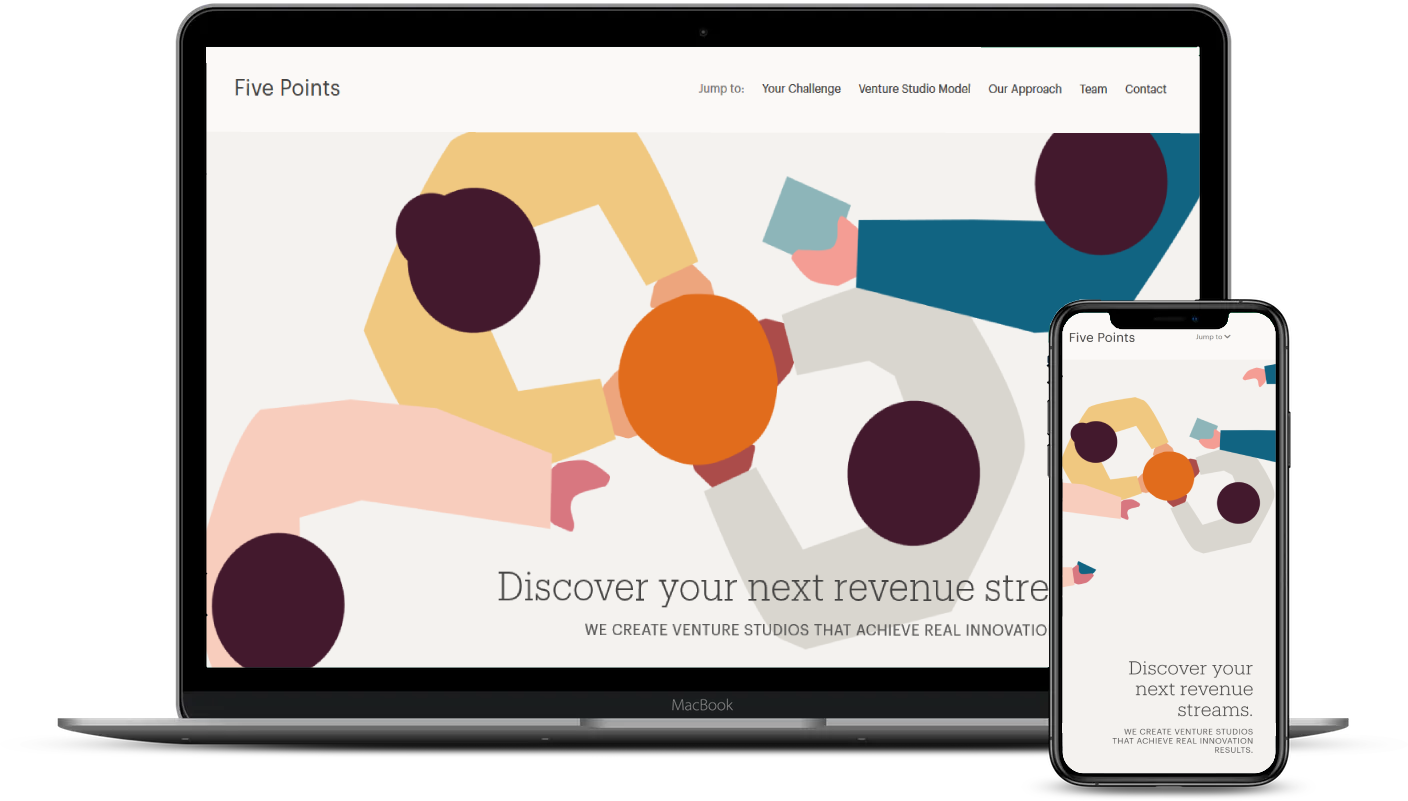
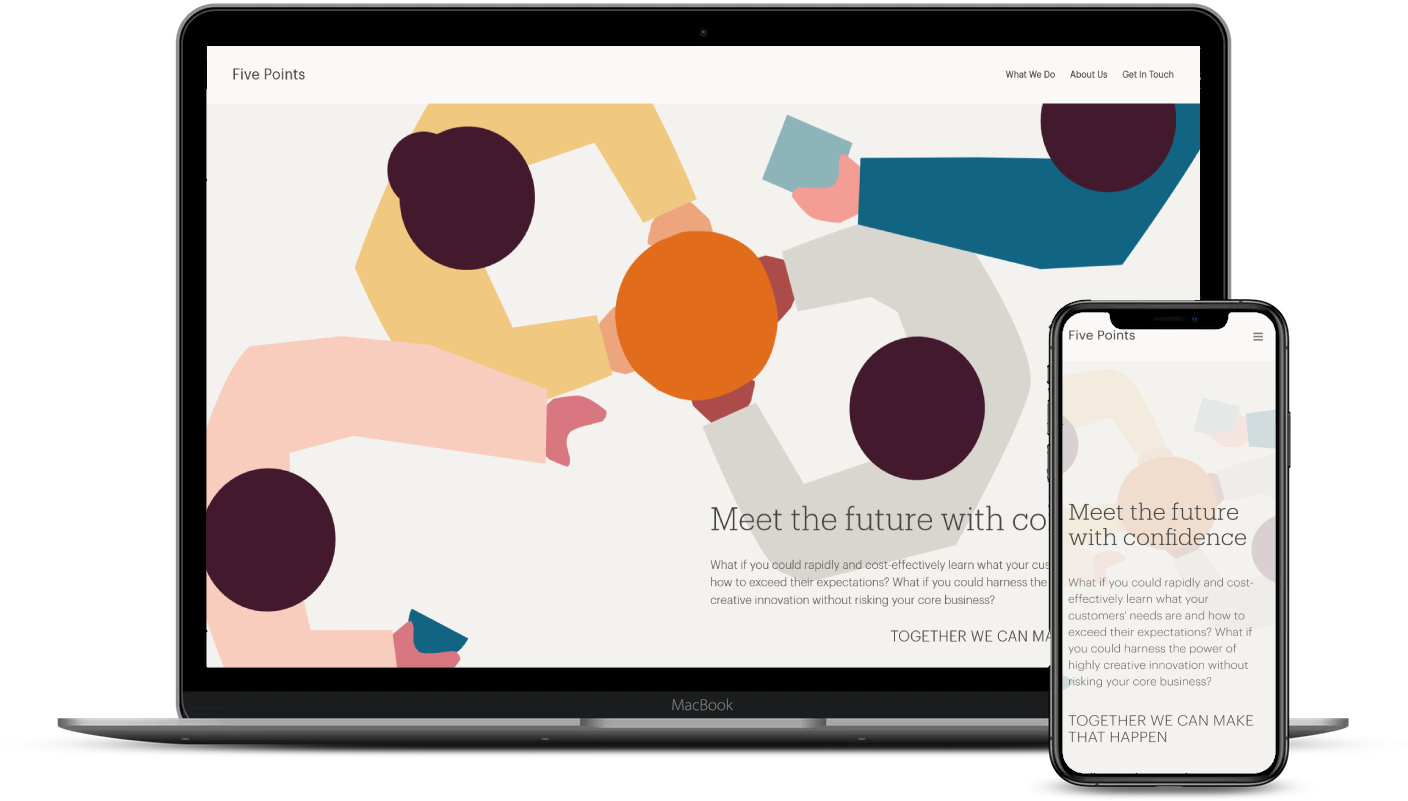
add shebelady and update fivepoints

Changed region(s): [[0.125, 0.0624, 0.9062, 0.9363], [0.1562, 0.0624, 0.25, 0.1248], [0.8438, 0.4057, 0.875, 0.437]]

diff --git a/index.html b/index.html
@@ -105,22 +105,6 @@
 						JavaScript (ES6)
 					</li>
 					<li class="skills-item">
-						<i class="devicon-jquery-plain" title="jQuery" aria-hidden="true"></i>
-						jQuery
-					</li>
-					<li class="skills-item">
-						<i class="devicon-sass-original" title="SASS" aria-hidden="true"></i>
-						SASS
-					</li>
-					<li class="skills-item">
-						<i class="icon-rest-api" title="REST APIs" aria-hidden="true"></i>
-						REST APIs
-					</li>
-					<li class="skills-item">
-						<i class="devicon-git-plain" title="Git" aria-hidden="true"></i>
-						Git
-					</li>
-					<li class="skills-item">
 						<i class="devicon-mongodb-plain" title="MongoDB" aria-label="MongoDB"></i>
 						MongoDB
 					</li>
@@ -137,8 +121,20 @@
 						Firebase
 					</li>
 					<li class="skills-item">
-						<i class="fas fa-terminal" title="Terminal" aria-hidden="true"></i>
-						Terminal
+						<i class="devicon-jquery-plain" title="jQuery" aria-hidden="true"></i>
+						jQuery
+					</li>
+					<li class="skills-item">
+						<i class="devicon-sass-original" title="SASS" aria-hidden="true"></i>
+						SASS
+					</li>
+					<li class="skills-item">
+						<i class="icon-rest-api" title="REST APIs" aria-hidden="true"></i>
+						REST APIs
+					</li>
+					<li class="skills-item">
+						<i class="devicon-git-plain" title="Git" aria-hidden="true"></i>
+						Git
 					</li>
 					<li class="skills-item">
 						<i class="fas fa-universal-access" title="Accessibility" aria-hidden="true"></i>
@@ -147,6 +143,10 @@
 					<li class="skills-item">
 						<i class="fas fa-mobile-alt" title="Responsive Design" aria-hidden="true"></i>
 						Responsive Design
+					</li>
+					<li class="skills-item">
+						<i class="fas fa-terminal" title="Terminal" aria-hidden="true"></i>
+						Terminal
 					</li>
 				</ul>
 			</div>
@@ -157,6 +157,36 @@
 			<div class="wrapper">
 				<h3>Portfolio</h3>
 				<ul class="portfolio">
+
+					<!-- She Be Lady -->
+					<li class="portfolio-item">
+						<div class="portfolio-item-left">
+							<h4 class="highlight">She Be Lady</h3>
+								<p>Updated existing MERN-stack commercial event platform with features including user authentication system (incl. password reset email functionality), dynamic watch pages for events, online shop with Stripe API integration, admin tools for interacting with database, as well as a large number of code, styling & accessibility improvements</p>
+								<ul class="portfolio-item-icons">
+									<!-- <li><i class="devicon-html5-plain" title="HTML5" aria-label="HTML5"></i></li>
+									<li><i class="devicon-css3-plain" title="CSS3" aria-label="CSS3"></i></li> -->
+									<li><i class="devicon-react-original" title="React" aria-label="React"></i></li>
+									<li><i class="devicon-redux-original" title="Redux" aria-label="Redux"></i></li>
+									<li><i class="devicon-javascript-plain" title="JavaScript" aria-label="JavaScript"></i></li>
+									<li><i class="devicon-mongodb-plain" title="MongoDB" aria-label="MongoDB"></i></li>
+									<li><i class="devicon-express-original" title="Express" aria-label="Express"></i></li>
+									<li><i class="devicon-nodejs-plain" title="NodeJS" aria-label="NodeJS"></i></li>
+									<li><i class="icon-rest-api" title="REST APIs" aria-label="REST APIs"></i></li>
+									<li><i class="devicon-heroku-original" title="Heroku" aria-label="Heroku"></i></li>
+
+								</ul>
+								<a href="https://www.shebelady.com/" target="_blank" rel="noreferrer">live link</a>
+						</div>
+						<div class="portfolio-item-right">
+							<div class="image-container">
+								<a href="https://www.shebelady.com/" target="_blank" rel="noreferrer">
+									<img src="assets/shebelady-mockup.png" alt="Screenshot of She Be Lady website">
+								</a>
+							</div>
+
+						</div>
+					</li>
 
 					<!-- FeedBear -->
 					<li class="portfolio-item">
@@ -195,12 +225,13 @@
 					<li class="portfolio-item">
 						<div class="portfolio-item-left">
 							<h4 class="highlight">Five Points Ventures</h3>
-								<p>Commercial one-page site built from the ground up using HTML, Javascript, and CSS (SASS)
+								<p>Commercial multi-page site built from the ground up using HTML, Javascript, and CSS (SASS), with custom Hubspot API form integration
 								<ul class="portfolio-item-icons">
 									<li><i class="devicon-html5-plain" title="HTML5" aria-label="HTML5"></i></li>
 									<li><i class="devicon-css3-plain" title="CSS3" aria-label="CSS3"></i></li>
 									<li><i class="devicon-sass-original" title="SASS" aria-label="SASS"></i></li>
 									<li><i class="devicon-javascript-plain" title="JavaScript" aria-label="JavaScript"></i></li>
+									<li><i class="icon-rest-api" title="REST APIs" aria-label="REST APIs"></i></li>
 								</ul>
 								<a href="https://fivepoints.ventures/" target="_blank" rel="noreferrer">live link</a>
 								<!-- <a href="https://github.com/JEANNEAJ/feedbear" target="_blank" rel="noreferrer">github</a> -->
@@ -220,7 +251,7 @@
 							<h4 class="highlight">Traveltainment</h3>
 								<p>App for finding movies/TV to watch on the go depending on your travel time. Uses JavaScript, jQuery,
 									and
-									multiple REST APIs including TheMovieDB and Google Maps.</p>
+									multiple REST APIs including TheMovieDB and Google Maps</p>
 								<ul class="portfolio-item-icons">
 									<li><i class="devicon-html5-plain" title="HTML5" aria-label="HTML5"></i></li>
 									<li><i class="devicon-css3-plain" title="CSS3" aria-label="CSS3"></i></li>
@@ -299,7 +330,7 @@
 						<div class="portfolio-item-left">
 							<h4 class="highlight">Mastermind</h3>
 								<p>Mastermind game created during Juno College's Accelerated JavaScript course. Uses SCSS, JavaScript
-									and jQuery.
+									and jQuery
 								</p>
 								<ul class="portfolio-item-icons">
 									<li><i class="devicon-html5-plain" title="HTML5" aria-label="HTML5"></i></li>
@@ -326,7 +357,7 @@
 						<div class="portfolio-item-left">
 							<h4 class="highlight">Podcast Planner</h3>
 								<p>App for creating playlists of podcasts within provided timeframe. Uses React, listennotes REST API,
-									and Firebase with anonymous athentication.</p>
+									and Firebase with anonymous athentication</p>
 								<ul class="portfolio-item-icons">
 									<!-- <li><i class="devicon-html5-plain" title="HTML5" aria-label="HTML5"></i></li>
 										<li><i class="devicon-css3-plain" title="CSS3" aria-label="CSS3"></i></li> -->
